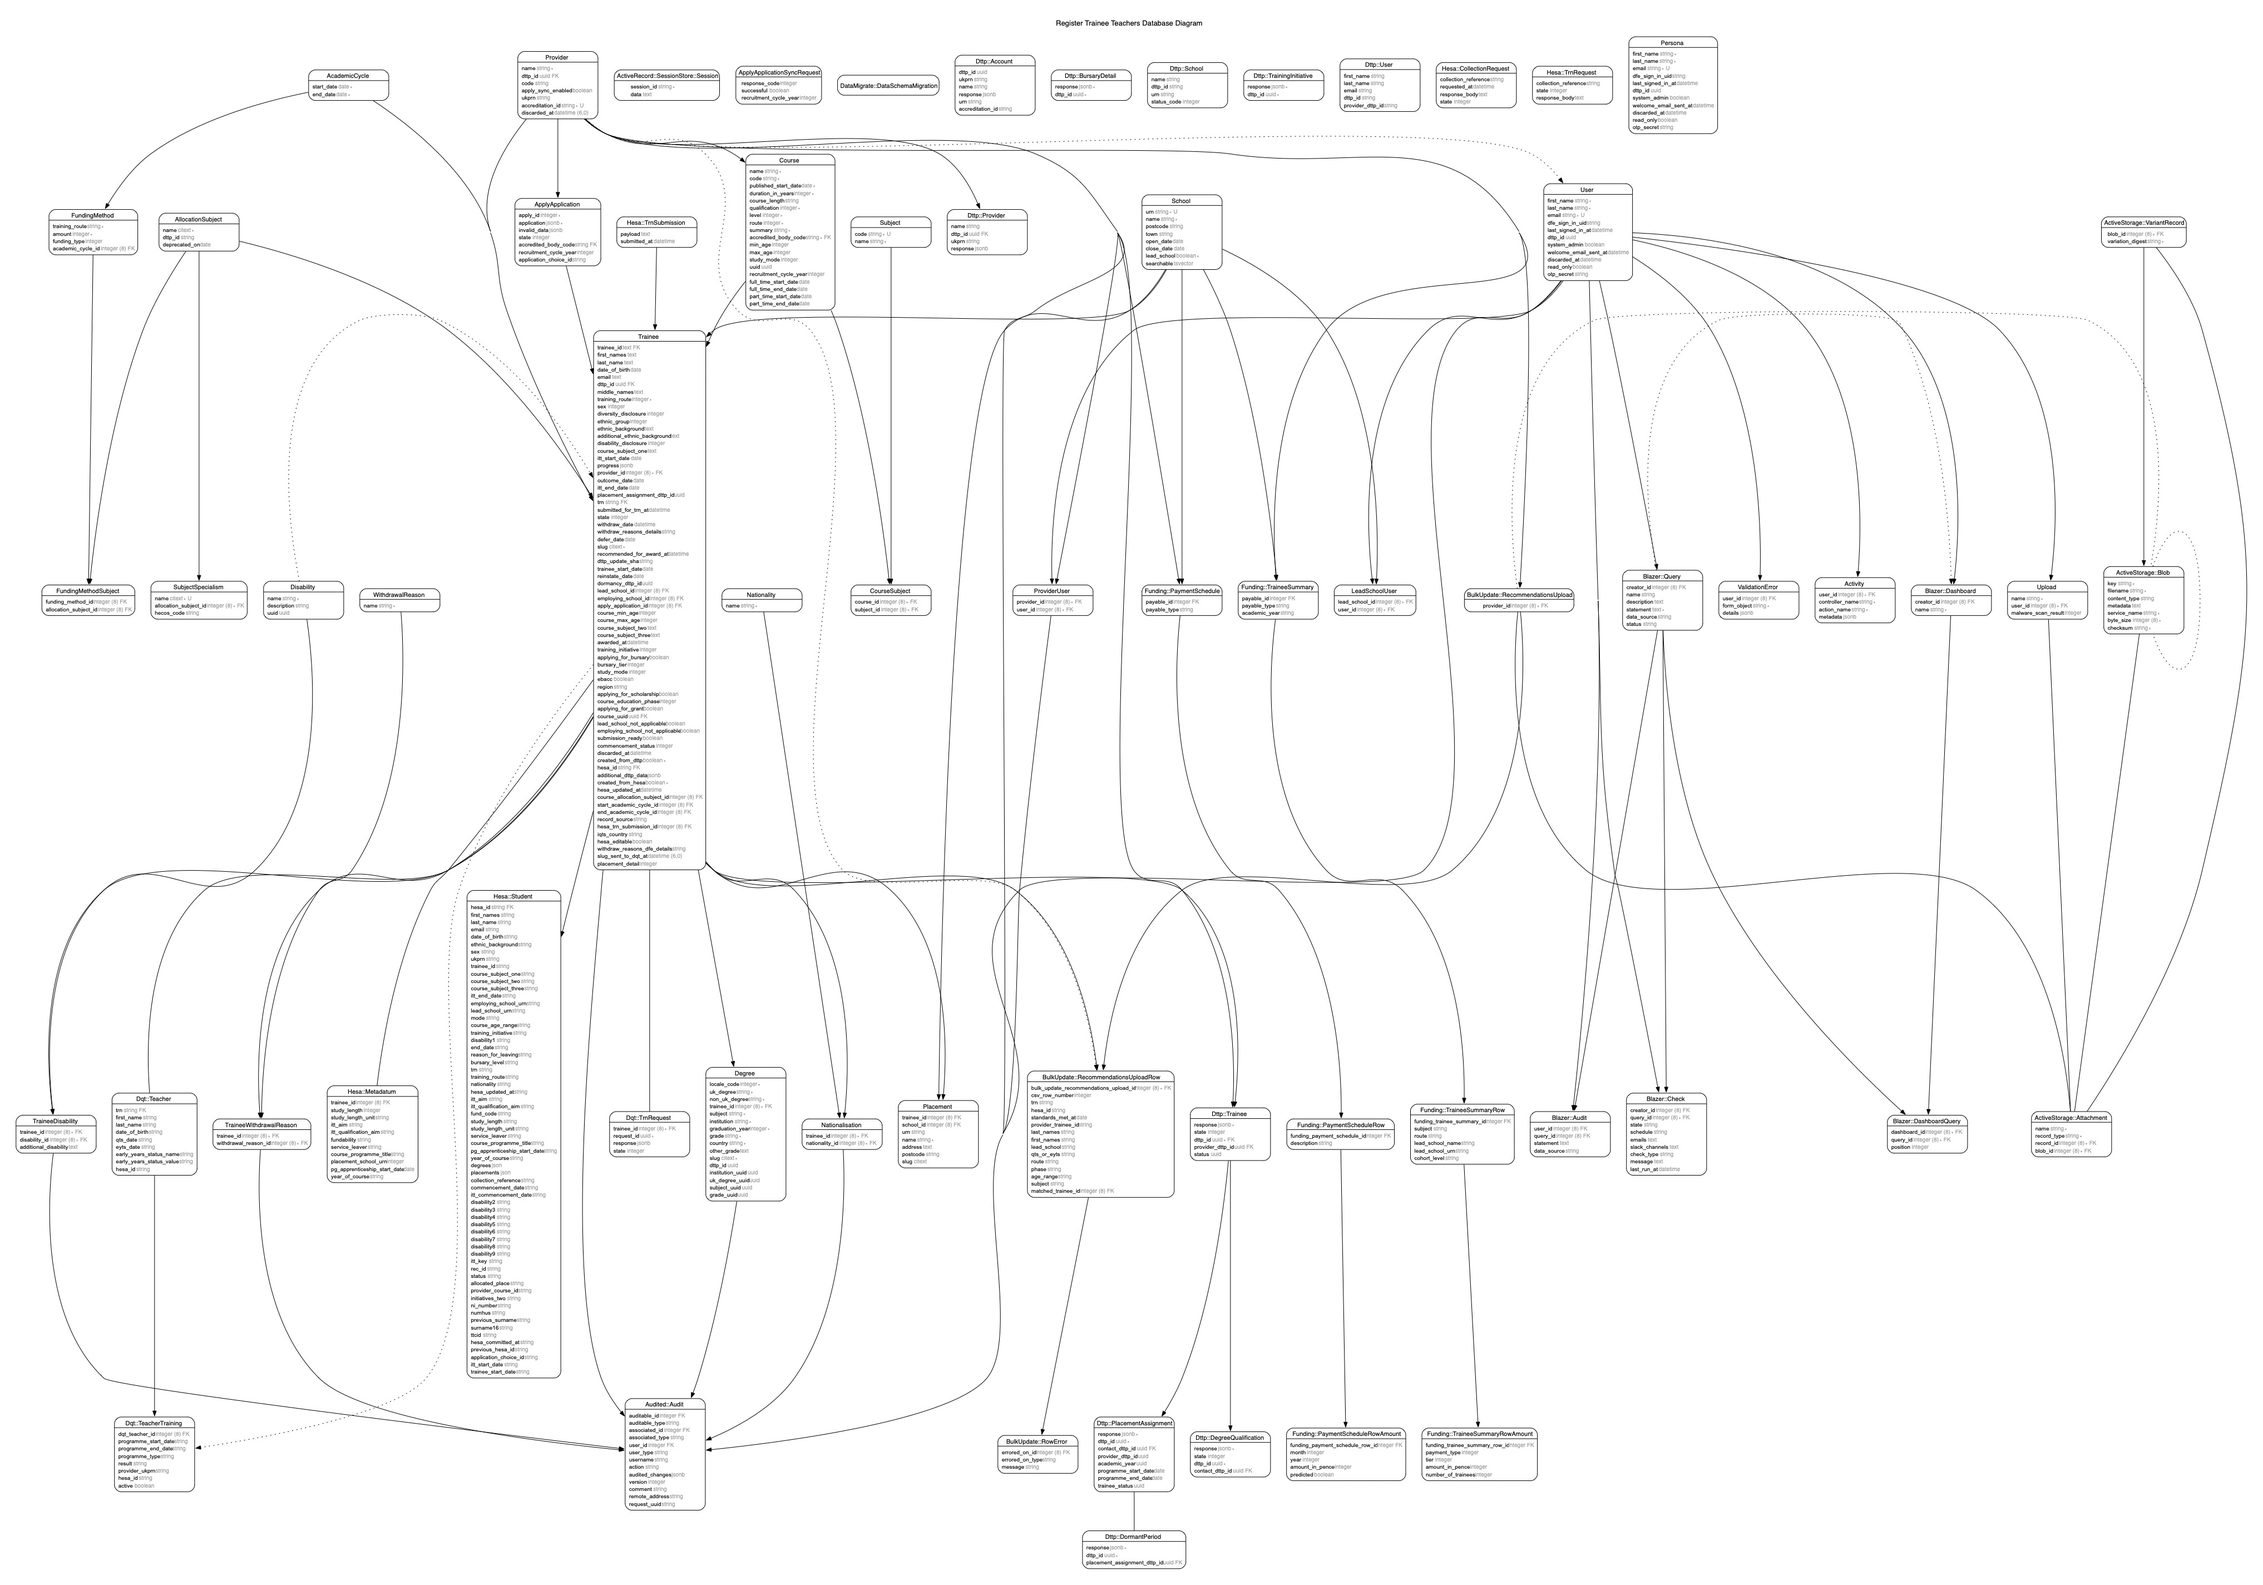
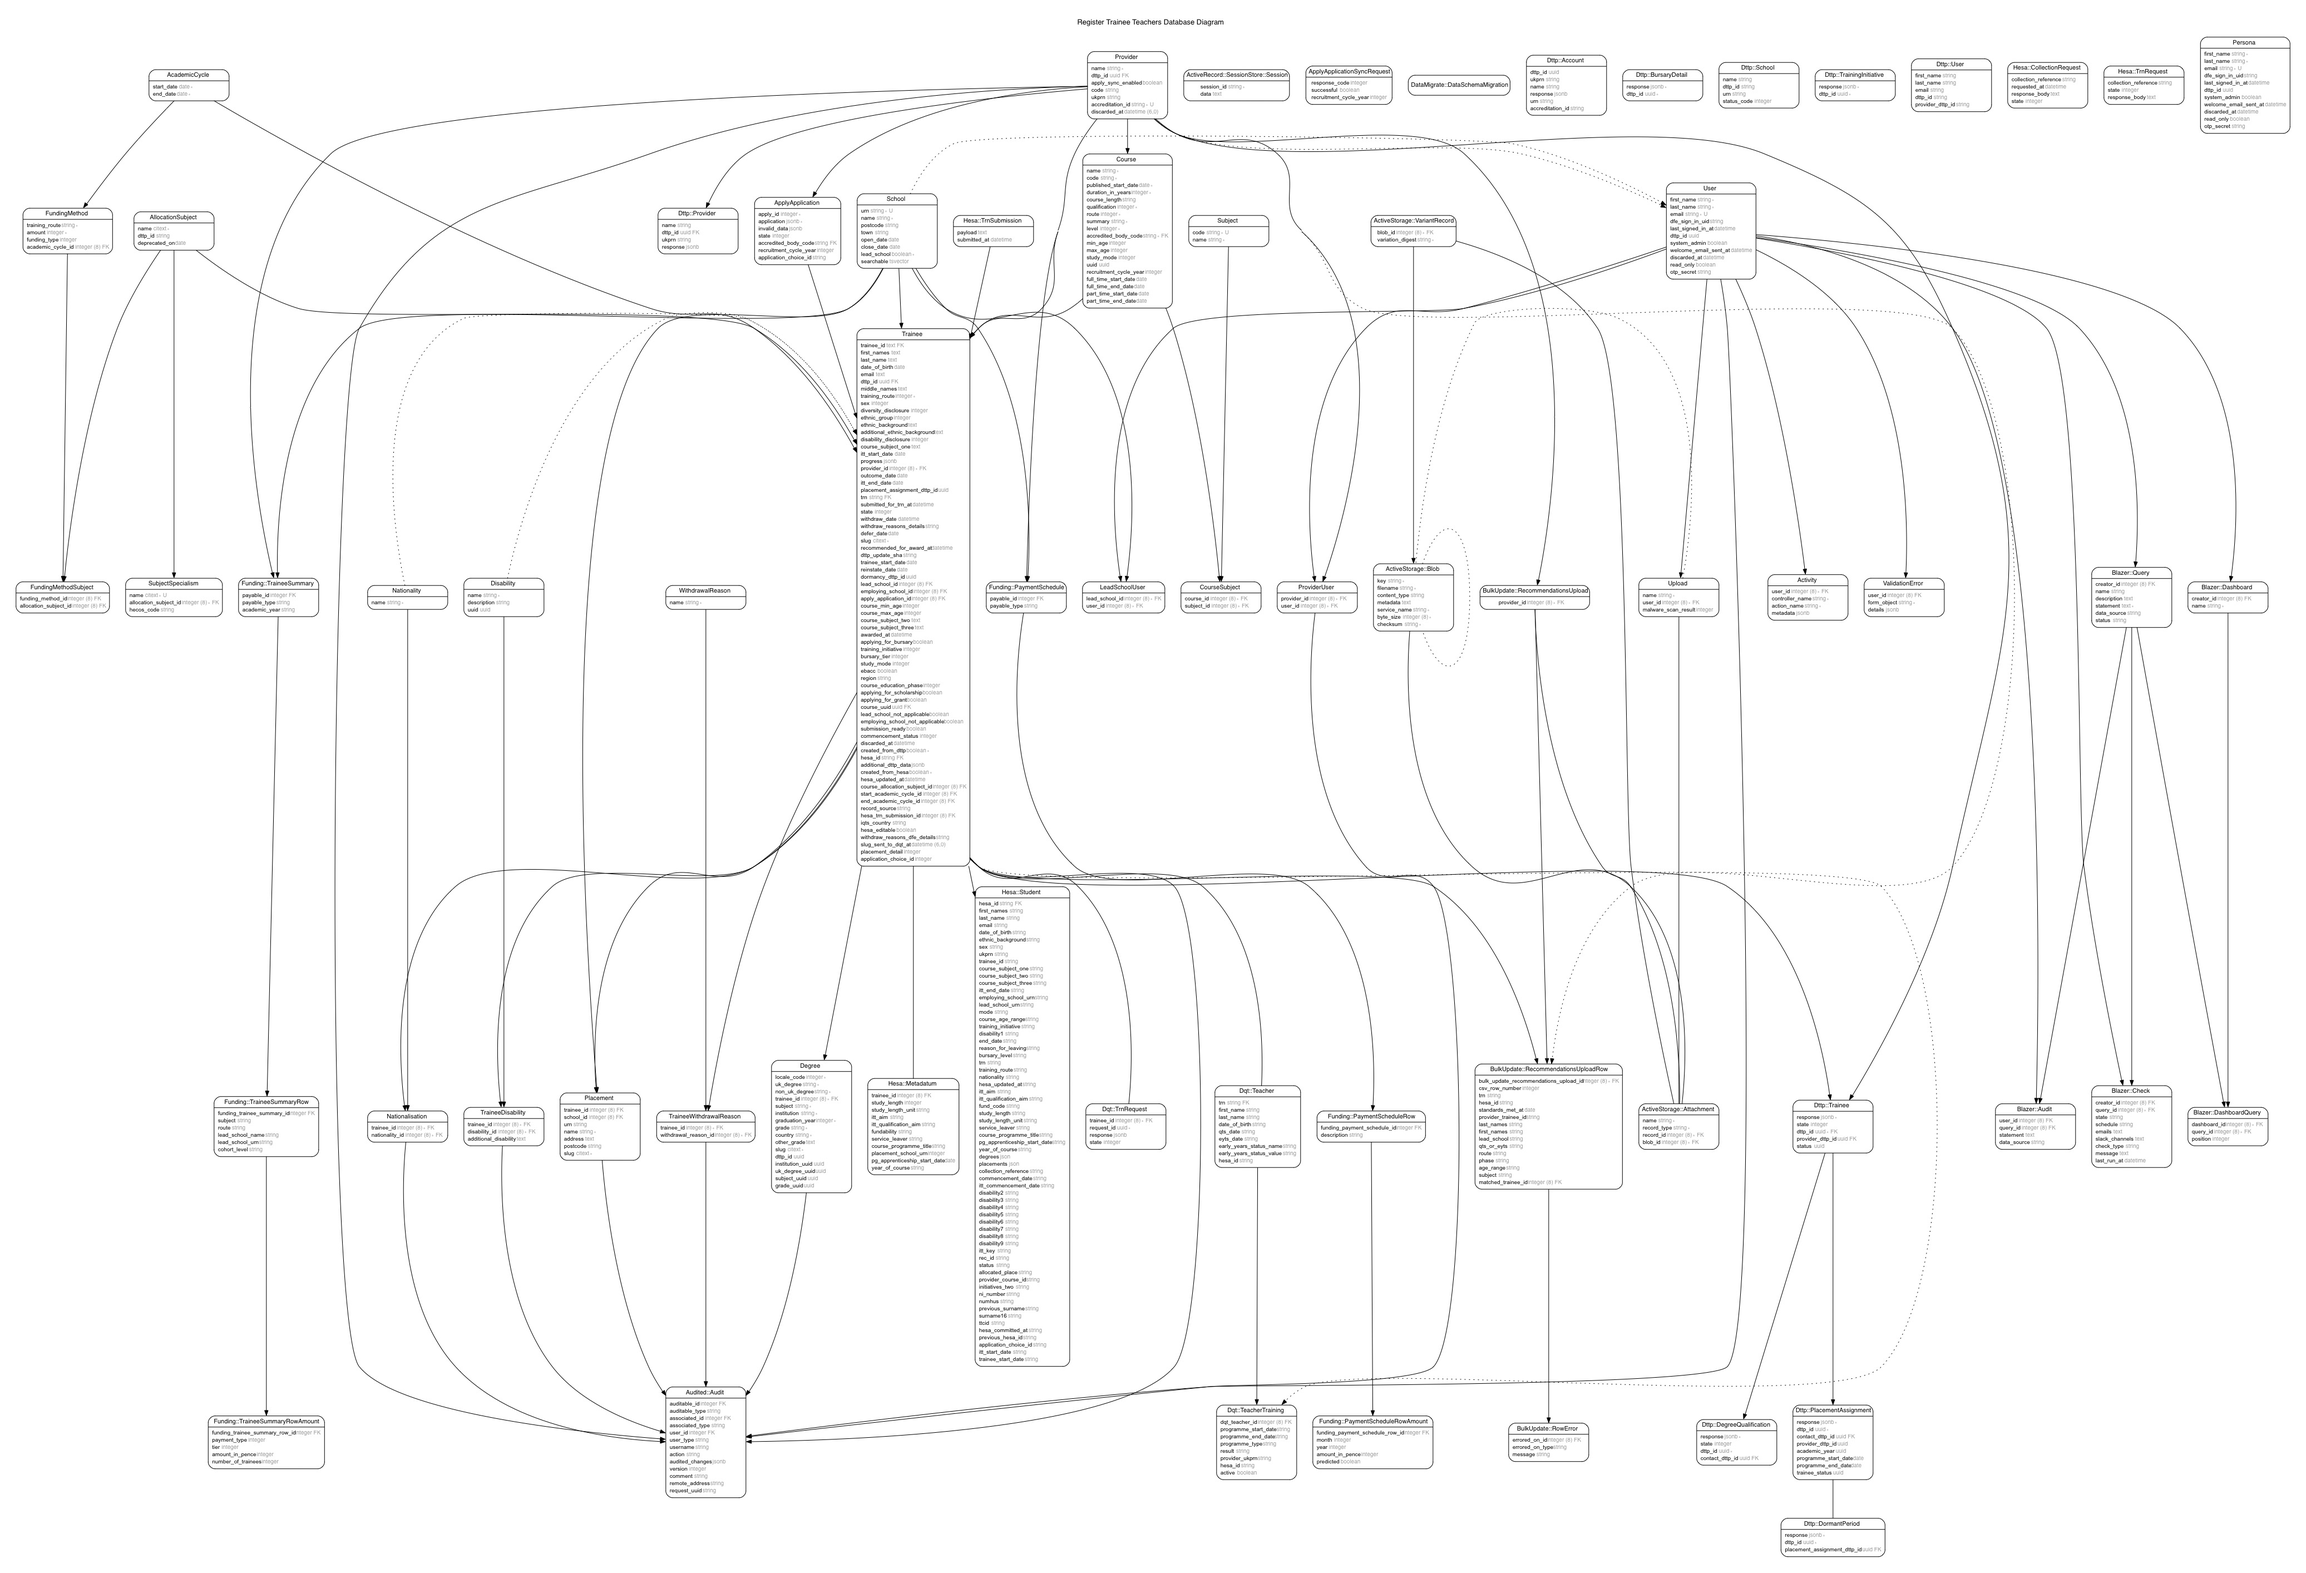
Migration to add `trainees.application_choice_id`
- Adds column to `trainees` table
- Adds a foreign key referencing `apply_applications.apply_id`

diff --git a/db/schema.rb b/db/schema.rb
@@ -10,7 +10,7 @@
 #
 # It's strongly recommended that you check this file into your version control system.
 
-ActiveRecord::Schema[7.0].define(version: 2023_10_30_174031) do
+ActiveRecord::Schema[7.0].define(version: 2023_11_23_173652) do
   # These are extensions that must be enabled in order to support this database
   enable_extension "btree_gist"
   enable_extension "citext"
@@ -827,6 +827,7 @@ ActiveRecord::Schema[7.0].define(version: 2023_10_30_174031) do
     t.string "withdraw_reasons_dfe_details"
     t.datetime "slug_sent_to_dqt_at"
     t.integer "placement_detail"
+    t.integer "application_choice_id"
     t.index ["apply_application_id"], name: "index_trainees_on_apply_application_id"
     t.index ["course_allocation_subject_id"], name: "index_trainees_on_course_allocation_subject_id"
     t.index ["course_uuid"], name: "index_trainees_on_course_uuid"
@@ -924,6 +925,7 @@ ActiveRecord::Schema[7.0].define(version: 2023_10_30_174031) do
   add_foreign_key "trainees", "academic_cycles", column: "start_academic_cycle_id"
   add_foreign_key "trainees", "allocation_subjects", column: "course_allocation_subject_id"
   add_foreign_key "trainees", "apply_applications"
+  add_foreign_key "trainees", "apply_applications", column: "application_choice_id", primary_key: "apply_id"
   add_foreign_key "trainees", "hesa_trn_submissions"
   add_foreign_key "trainees", "providers"
   add_foreign_key "trainees", "schools", column: "employing_school_id"

diff --git a/app/models/trainee.rb b/app/models/trainee.rb
@@ -65,6 +65,7 @@
 #  withdraw_reasons_dfe_details    :string
 #  created_at                      :datetime         not null
 #  updated_at                      :datetime         not null
+#  application_choice_id           :integer
 #  apply_application_id            :bigint
 #  course_allocation_subject_id    :bigint
 #  dormancy_dttp_id                :uuid
@@ -108,6 +109,7 @@
 #
 # Foreign Keys
 #
+#  fk_rails_...  (application_choice_id => apply_applications.apply_id)
 #  fk_rails_...  (apply_application_id => apply_applications.id)
 #  fk_rails_...  (course_allocation_subject_id => allocation_subjects.id)
 #  fk_rails_...  (employing_school_id => schools.id)

diff --git a/db/migrate/20231123173652_add_trainees_application_choice_id.rb b/db/migrate/20231123173652_add_trainees_application_choice_id.rb
@@ -1,0 +1,8 @@
+# frozen_string_literal: true
+
+class AddTraineesApplicationChoiceId < ActiveRecord::Migration[7.0]
+  def change
+    add_column :trainees, :application_choice_id, :integer, null: true
+    add_foreign_key :trainees, :apply_applications, column: :application_choice_id, primary_key: :apply_id, validate: false
+  end
+end
